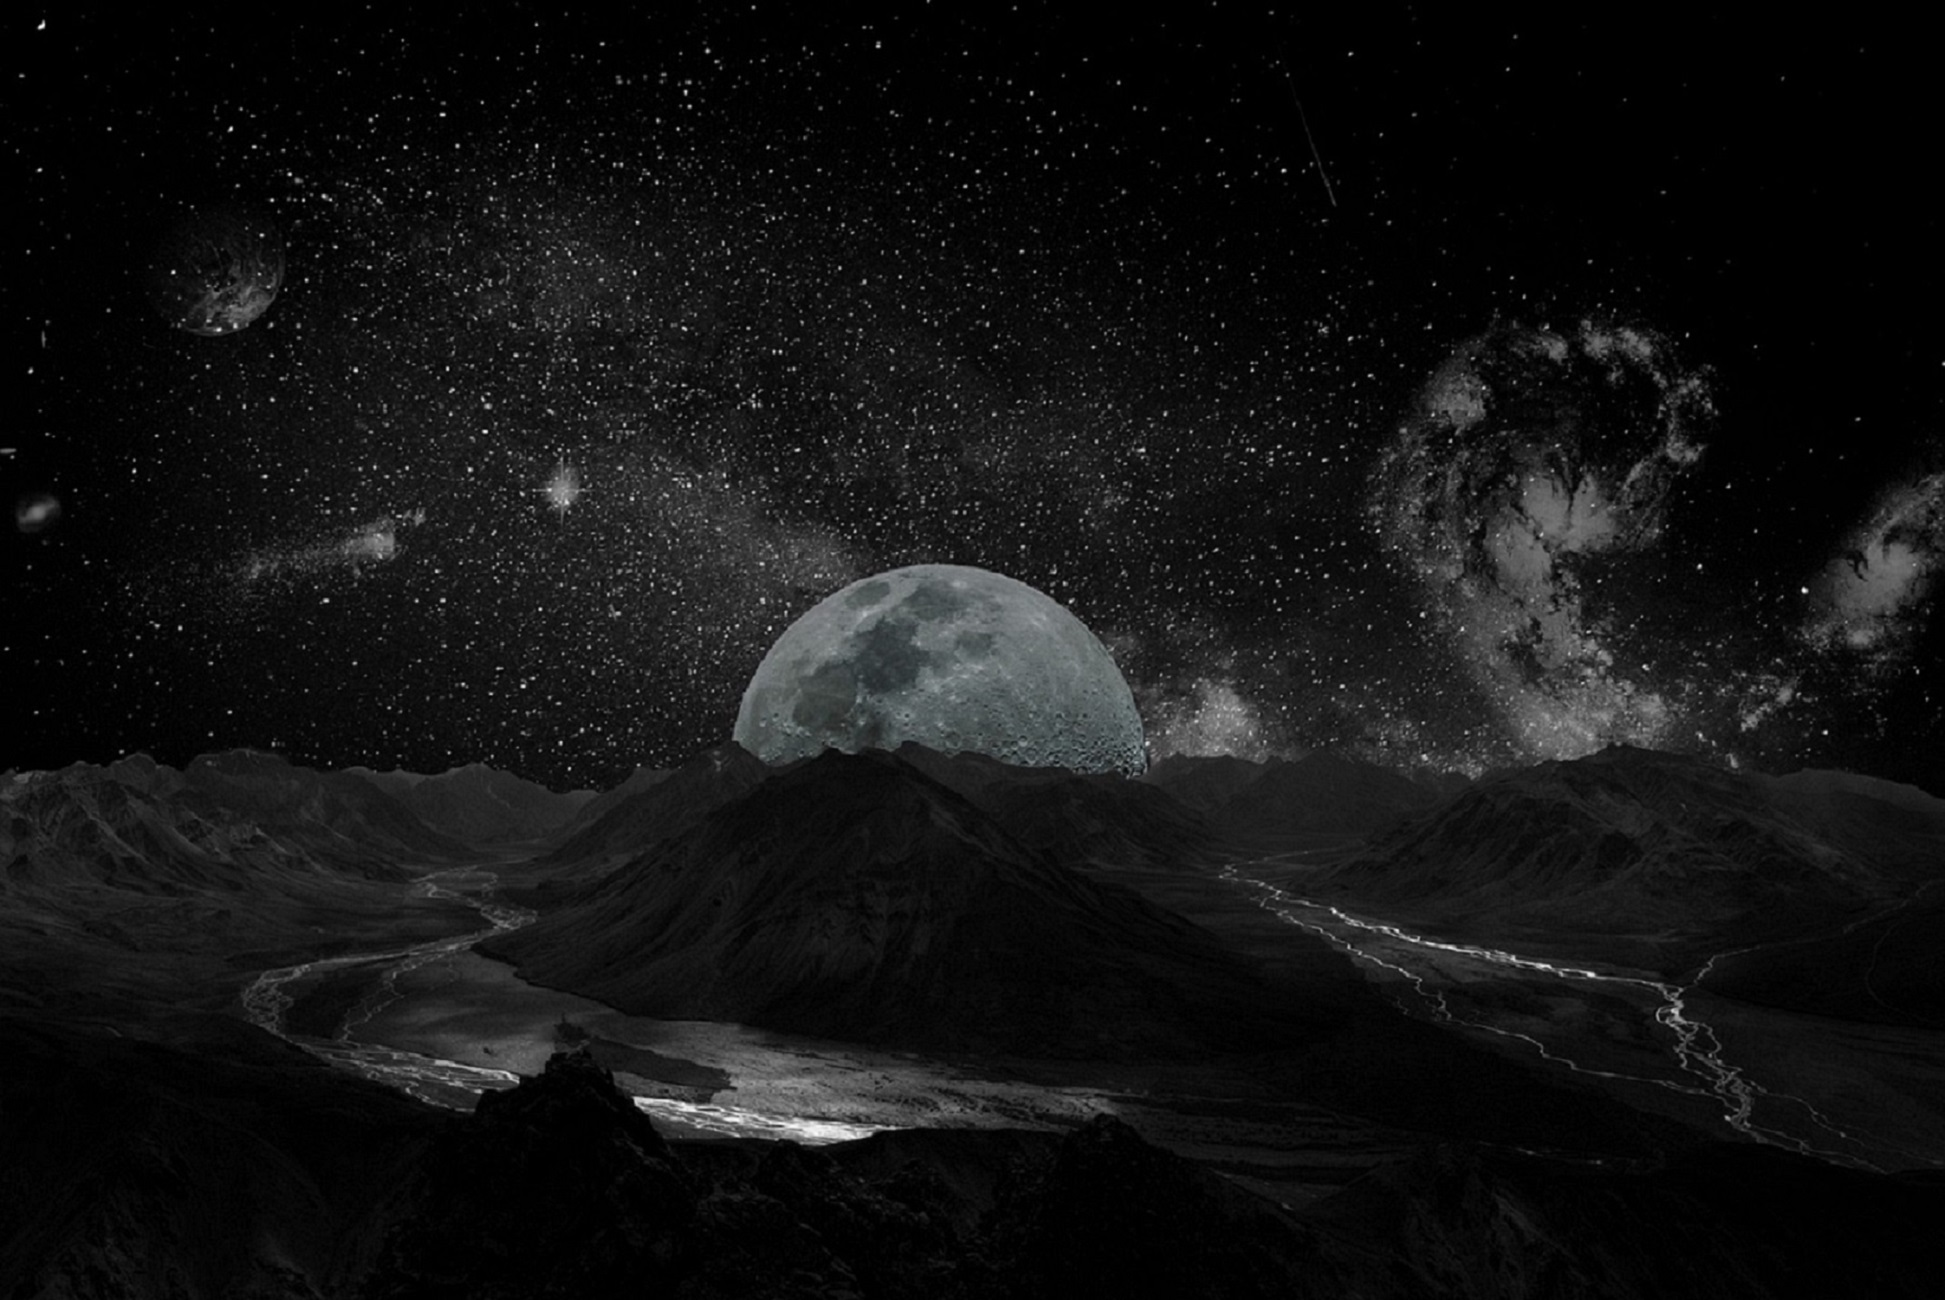
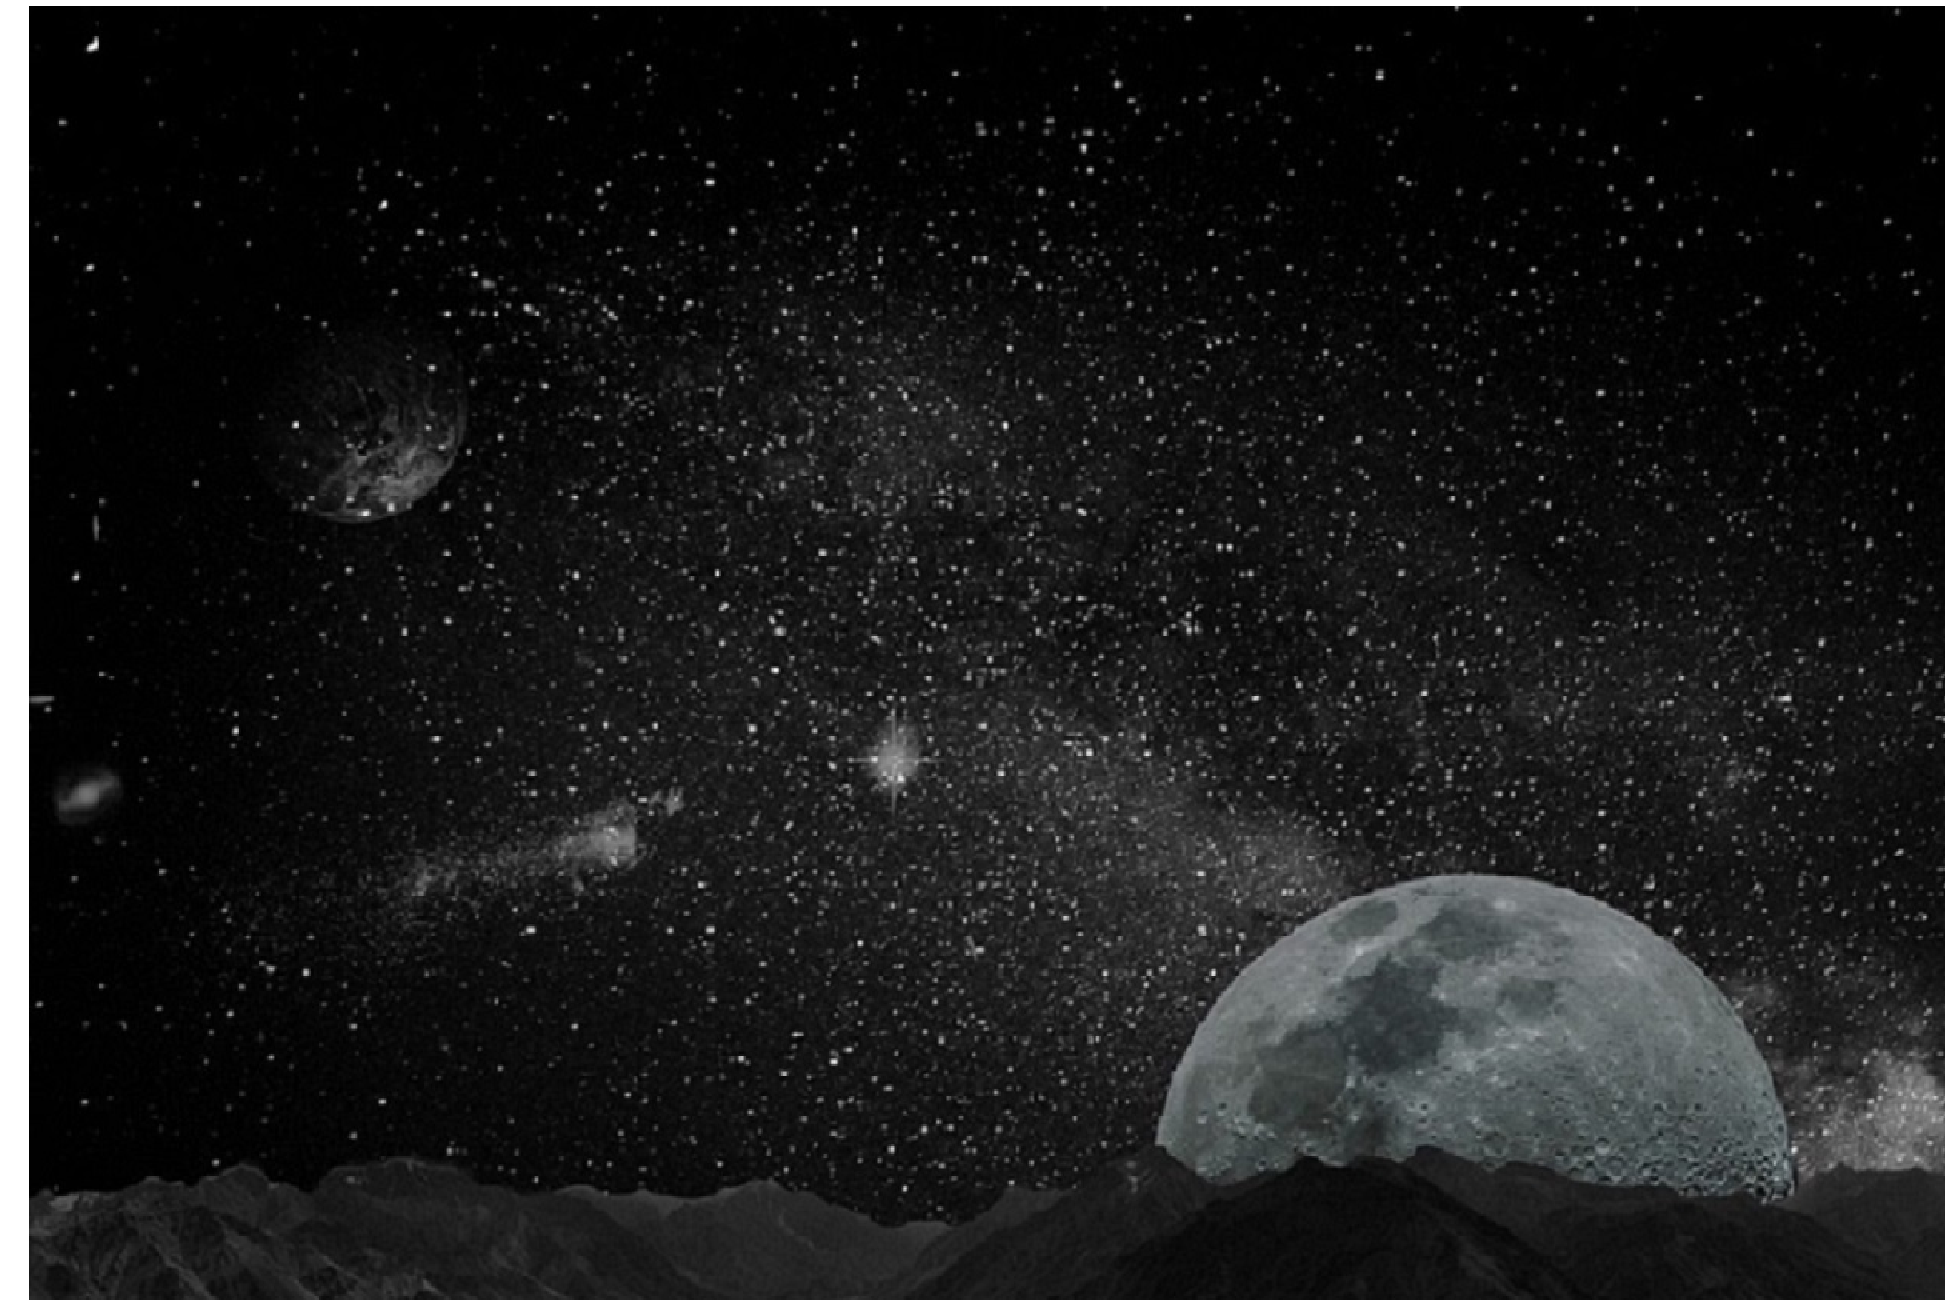
Actualización 11 de noviembre

diff --git a/estilos.css b/estilos.css
@@ -11,7 +11,7 @@
     
     body{
     
-    background-image: url("fondo.jpg");
+    background-image: url("fondo2.jpg");
     
     background-repeat: no-repeat;
     
@@ -20,8 +20,6 @@
     .img{
     
     position: relative;
-    
-     
     
     width: 190px;
     
@@ -167,9 +165,9 @@
             
             float:left;
             
-            height: 2000px;
+            height: 1000px;
             
-            width: 2000px;
+            width: 1000px;
             
             margin-left: 10px;
             
@@ -193,7 +191,7 @@
             
             }
 
-            .imagensociales3{
+            .imagenCaptura{
             
              
             
@@ -219,7 +217,7 @@
                 
                 text-align: justify;
                 
-                color: rgb(172, 245, 245);
+                color: rgb(212, 135, 46);
                 
                 font-size: 10px;
                 
@@ -356,39 +354,7 @@
                     font-size: 25px;
                                                             
                     }
-
-                    .imagenbiologia3{
                     
-                     
-                    
-                        background-repeat: no-repeat;
-                        
-                        float:left;
-                        
-                        height: 200px;
-                        
-                        width: 260px;
-                        
-                        margin-left: 7px;
-                        
-                        margin: right 7px;
-                        
-                        background-image: url("genetica.jpg");
-                        
-                        }
-                        
-                        
-                        
-                        .textobiologia3{
-                        
-                        text-align: justify;
-                        
-                        color: rgb(247, 215, 109);
-                        
-                        font-size: 25px;
-                                                                
-                        }
-
                     .contenido{
 
                         height: 280px;
@@ -436,35 +402,3 @@
                         font-size: 5px;
                                                                 
                         }
-
-                        .imagenreligion3{
-                        
-                         
-                        
-                            background-repeat: no-repeat;
-                            
-                            float:left;
-                            
-                            height: 200px;
-                            
-                            width: 260px;
-                            
-                            margin-left: 7px;
-                            
-                            margin: right 7px;
-                            
-                            background-image: url("Hinduismo");
-                            
-                            }
-                            
-                            
-                            
-                            .textoreligion3{
-                            
-                            text-align: justify;
-                            
-                            color: rgb(247, 215, 109);
-                            
-                            font-size: 5px;
-                                                                    
-                            }

diff --git a/sociales3.html b/sociales3.html
@@ -178,11 +178,17 @@ EJEMPLO DE MENÚ DESPLEGABLE
 
 
 
-<div class="contenido">
-    <div class="imagensociales3"></div>
-    <div class="textosociales3">
+    <div class="contenido">
+
     
+    <div class="textosociales3">
+    <h1>la primera revolucin industrial se llevo a cabo 1760 en el reino unido se extendio en el resto de Europa y los Estados Unidos gracias a los avances de unos cientificos que se unieron a una busqueda de nuevos metodos de produccion.</h1>
+    <h1>Esta etapa no solo trajo consigo cambios en la manera de producir, sino también en las economías, la política, la geografía y la cultura. consiguieron introducir la máquina de vapor, la cual se considera “motor” de la Primera Revolución Industrial. A partir de aquí surgieron diferentes innovaciones que cambiarían el mundo: máquinas de hilar y tejer, técnicas de especialización para la mano de obra, energía eléctrica y motores de combustión son solo algunos ejemplos.</h1>
+    
+    <div  class="imagenCaptura"></div>
+
 </div>
+
 
 </body>
 
